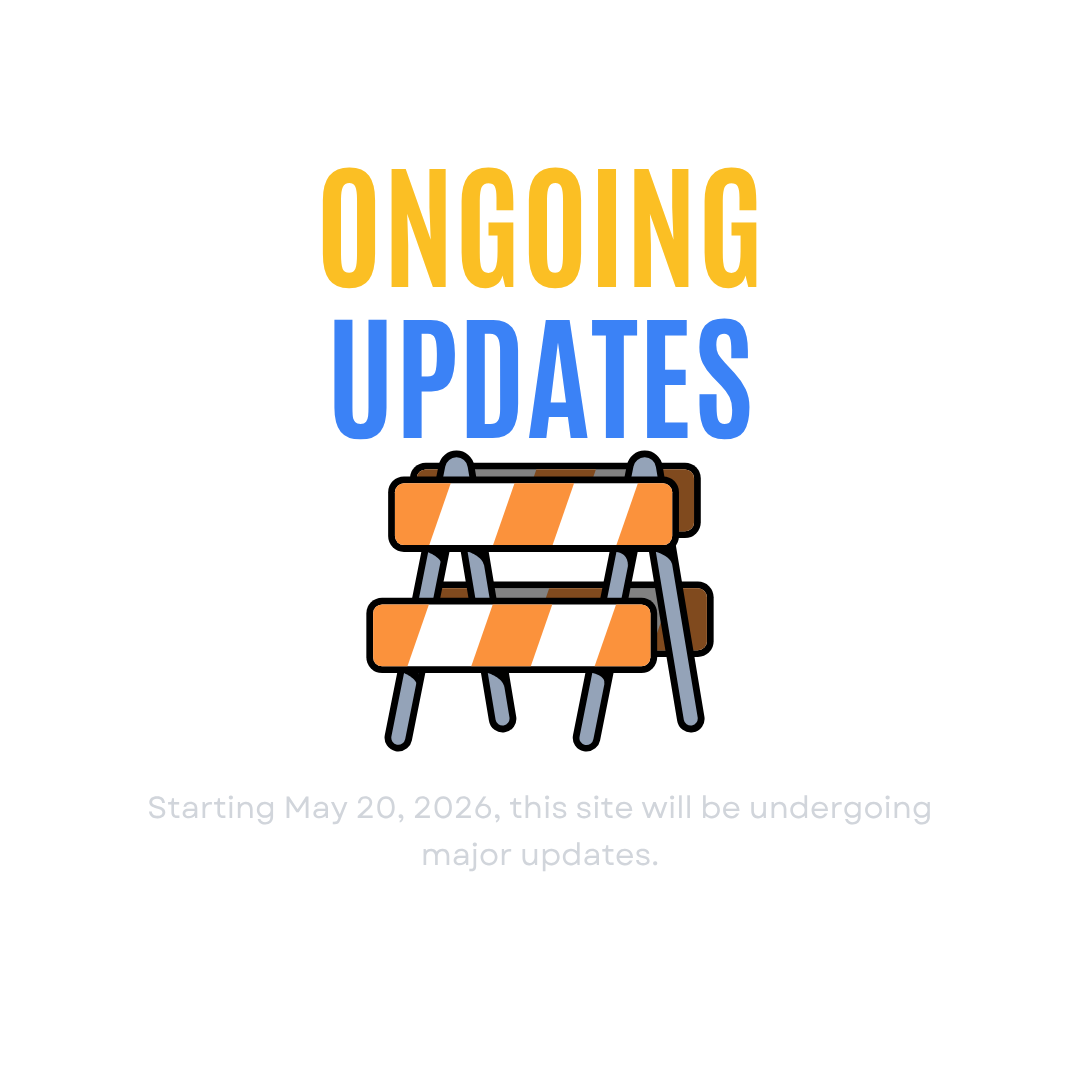
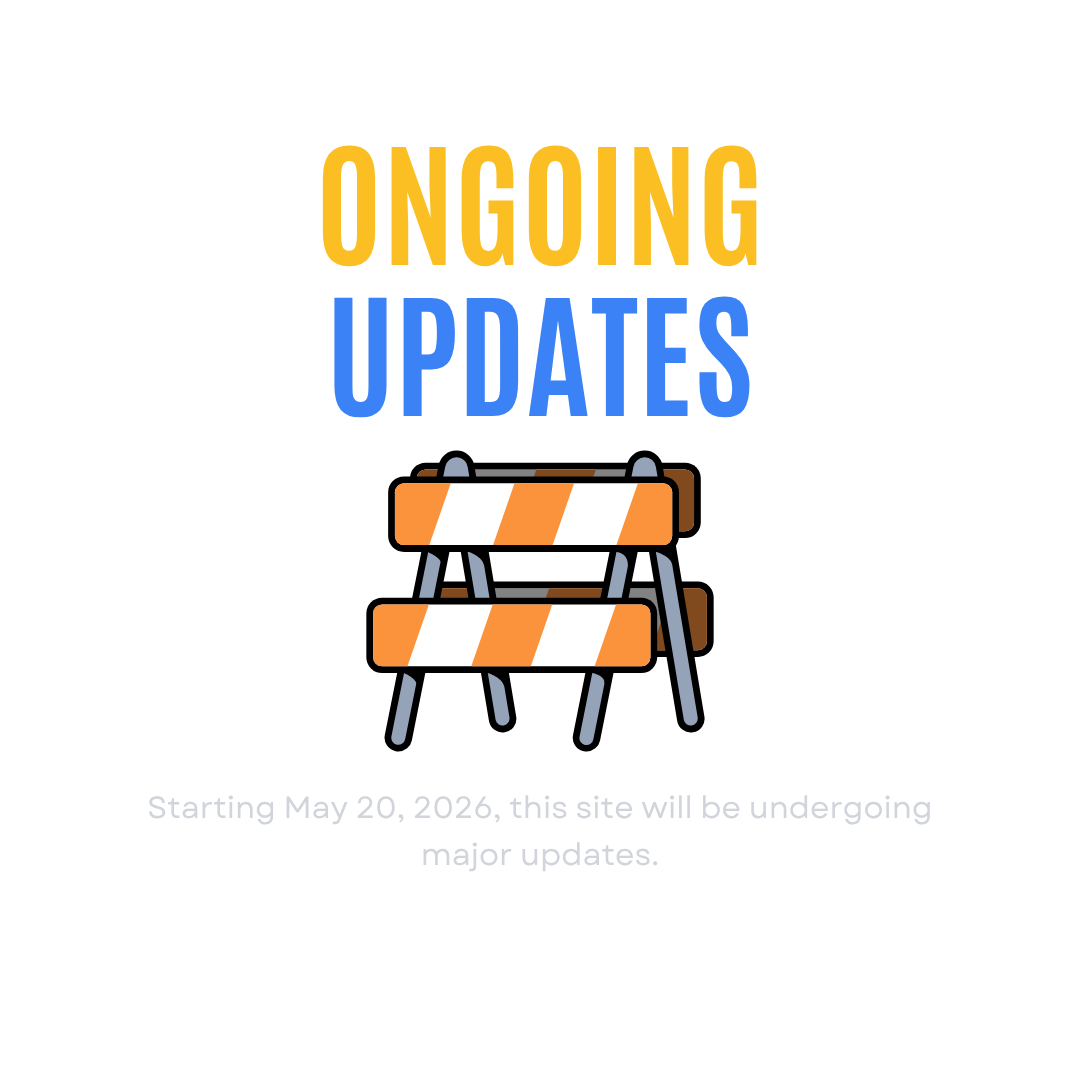
fix(notice): :ambulance: fix the router import and image
slight error earlier

Changed region(s): [[0.275, 0.1222, 0.7028, 0.4278]]

diff --git a/src/router/index.js b/src/router/index.js
@@ -1,6 +1,5 @@
 import AboutPage from '@/pages/AboutPage.vue';
-import ConstructionNotice from '@/pages/errors/ConstructionNotice.vue';
-import HomePage from '@/pages/HomePage.vue';
+import ConstructionNotice from '@/pages/advisories/ConstructionNotice.vue';
 import PhotoExhibitPage from '@/pages/PhotoExhibitPage.vue';
 import ProjectsPage from '@/pages/ProjectsPage.vue';
 import ResumePage from '@/pages/ResumePage.vue';
